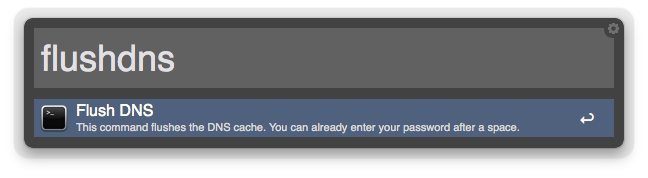
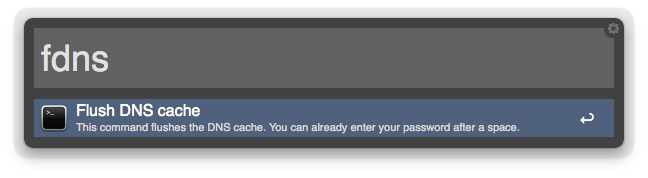
minor meta-data changes

Changed region(s): [[0.0617, 0.2528, 0.2778, 0.4213], [0.216, 0.5899, 0.3086, 0.6742]]

diff --git a/README.md b/README.md
@@ -10,7 +10,7 @@ For an easy installation, you can download the exported workflow here: [flushdns
 
 ##Usage
 
-###Keyword: `flushdns`
+###Keyword: `fdns`
 
 No arguments will prompt you for a user and password.
 
